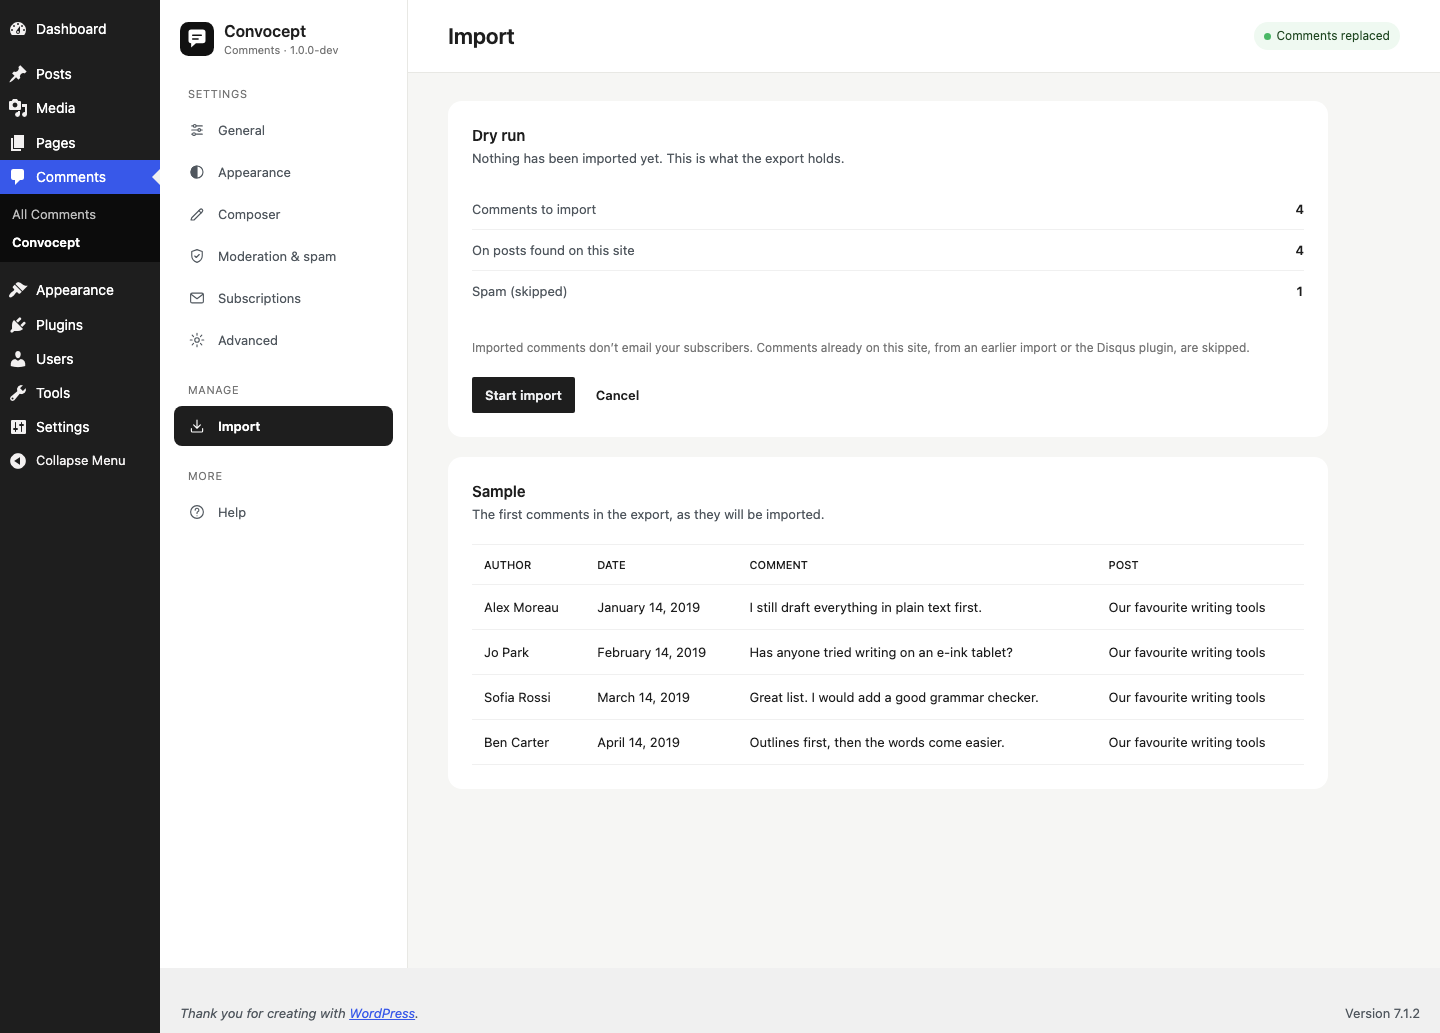
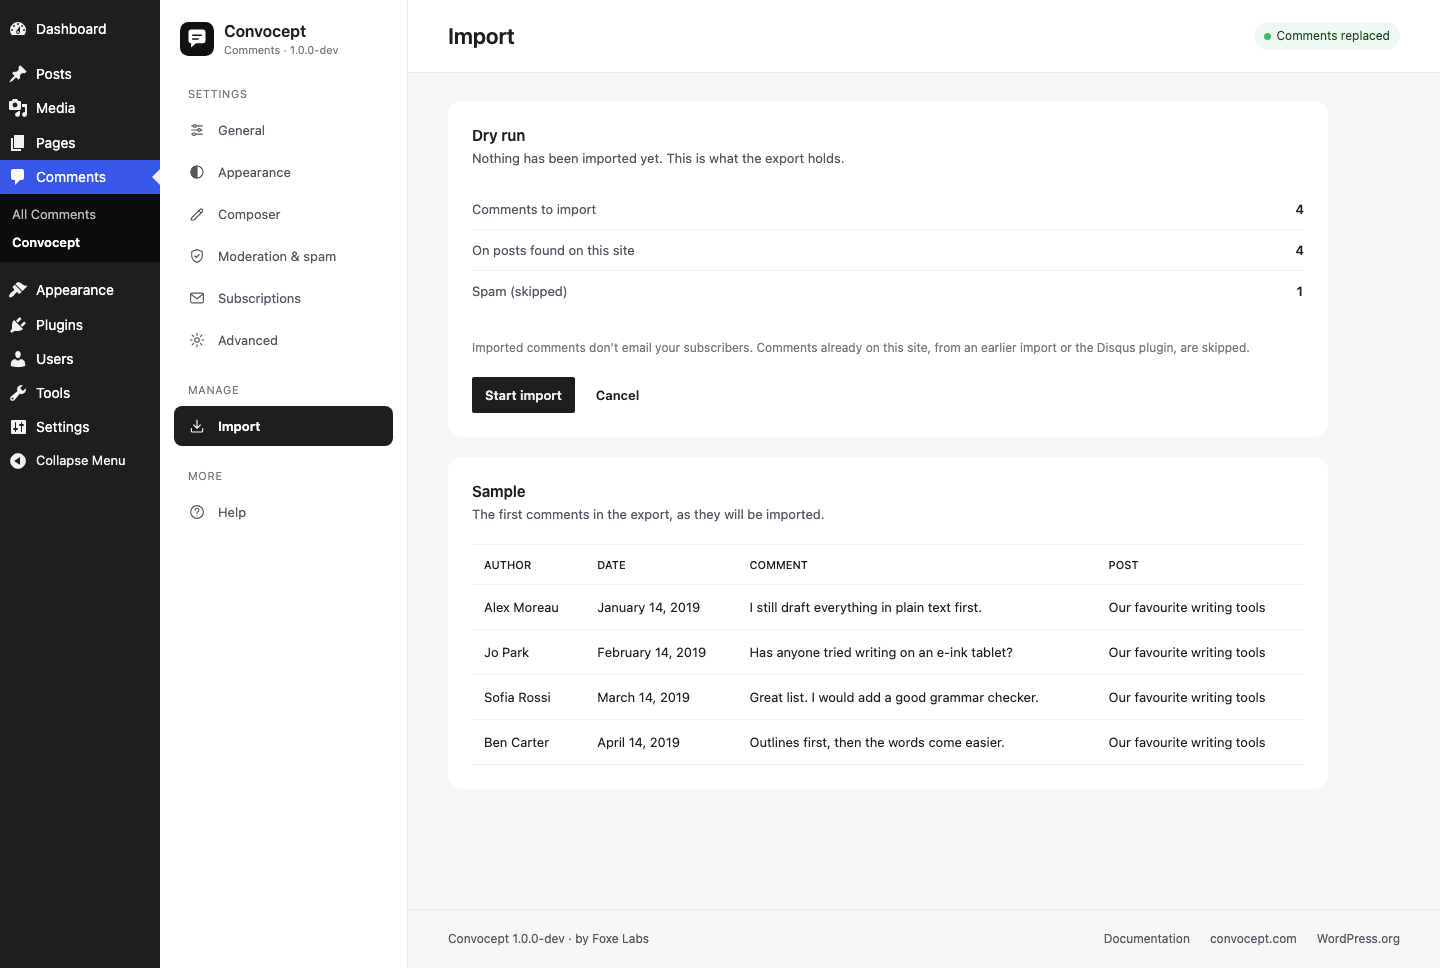
Settings screen: own footer with docs, convocept.com and WordPress.org links

diff --git a/assets/src/admin/ui/ui.css b/assets/src/admin/ui/ui.css
@@ -217,6 +217,52 @@
 	box-shadow: none;
 }
 
+/* PageFooter: replaces WordPress's footer, which this screen hides. */
+.convocept-footer {
+	display: flex;
+	flex-wrap: wrap;
+	align-items: center;
+	justify-content: space-between;
+	gap: 8px 24px;
+	margin-top: auto;
+	padding: 20px var(--convocept-space-8);
+	border-top: 1px solid var(--convocept-stroke-header);
+	background: var(--convocept-ground);
+	font-size: 12px;
+	line-height: 18px;
+	color: var(--convocept-fg-muted);
+}
+
+.convocept-footer__links {
+	display: flex;
+	flex-wrap: wrap;
+	gap: 8px 20px;
+}
+
+.convocept-admin .convocept-footer__links a {
+	color: var(--convocept-fg-muted);
+	text-decoration: none;
+}
+
+.convocept-admin .convocept-footer__links a:hover {
+	color: var(--convocept-fg);
+	text-decoration: underline;
+}
+
+/* While the FloatingBar shows, keep the footer's links clear of it. */
+.convocept-main--has-bar .convocept-footer {
+	padding-bottom: 96px;
+}
+
+/* This stylesheet loads on the plugin screen only, so these reach no other admin page. */
+#wpfooter {
+	display: none;
+}
+
+#wpbody-content {
+	padding-bottom: 0;
+}
+
 .convocept-chip {
 	display: inline-flex;
 	align-items: center;
@@ -239,7 +285,7 @@
 	gap: var(--convocept-space-5);
 	width: 100%;
 	max-width: calc(var(--convocept-content-max) + 2 * var(--convocept-space-8));
-	padding: var(--convocept-space-7) var(--convocept-space-8) 120px;
+	padding: var(--convocept-space-7) var(--convocept-space-8);
 }
 
 .convocept-content--wide {
@@ -823,7 +869,8 @@
 	}
 
 	.convocept-header,
-	.convocept-content {
+	.convocept-content,
+	.convocept-footer {
 		padding-inline: var(--convocept-space-4);
 	}
 

diff --git a/assets/src/admin/ui/layout.js b/assets/src/admin/ui/layout.js
@@ -1,6 +1,6 @@
 /**
  * Layout components of the Foxe Plugin Admin UI: Sidebar, PageHeader,
- * StatusChip, Card, Notice and FloatingBar.
+ * PageFooter, StatusChip, Card, Notice and FloatingBar.
  */
 
 /**
@@ -131,6 +131,41 @@ export function PageHeader( { title, chips, actions } ) {
 			{ chips }
 			{ actions }
 		</header>
+	);
+}
+
+/**
+ * The last line of the screen: plugin, version, maker and links.
+ *
+ * Replaces WordPress's own admin footer, which the plugin hides on its
+ * screen. Links open in a new tab and say so to screen readers.
+ *
+ * @param {Object}                                 props       Props.
+ * @param {string}                                 props.meta  Plugin, version and maker, e.g. "Convocept 1.0.0 · by Foxe Labs".
+ * @param {string}                                 props.label Name of the link list for screen readers.
+ * @param {Array<{ label: string, href: string }>} props.links Links.
+ * @return {Element} Footer.
+ */
+export function PageFooter( { meta, label, links } ) {
+	return (
+		<footer className="convocept-footer">
+			<span className="convocept-footer__meta">{ meta }</span>
+			<nav className="convocept-footer__links" aria-label={ label }>
+				{ links.map( ( link ) => (
+					<a
+						key={ link.href }
+						href={ link.href }
+						target="_blank"
+						rel="noopener noreferrer"
+					>
+						{ link.label }
+						<span className="screen-reader-text">
+							{ __( '(opens in a new tab)', 'convocept' ) }
+						</span>
+					</a>
+				) ) }
+			</nav>
+		</footer>
 	);
 }
 

diff --git a/assets/src/admin/app/App.js b/assets/src/admin/app/App.js
@@ -27,6 +27,7 @@ import { store as noticesStore } from '@wordpress/notices';
 import {
 	FloatingBar,
 	Notice,
+	PageFooter,
 	PageHeader,
 	Sidebar,
 	Snackbars,
@@ -226,7 +227,11 @@ export default function App( { boot, pages, groups } ) {
 					window.location.hash = id;
 				} }
 			/>
-			<div className="convocept-main">
+			<div
+				className={ `convocept-main${
+					dirty.length > 0 ? ' convocept-main--has-bar' : ''
+				}` }
+			>
 				<PageHeader
 					title={ page.title }
 					chips={
@@ -253,6 +258,28 @@ export default function App( { boot, pages, groups } ) {
 						boot={ boot }
 					/>
 				</main>
+				<PageFooter
+					meta={ sprintf(
+						/* translators: %s: Plugin version. */
+						__( 'Convocept %s · by Foxe Labs', 'convocept' ),
+						boot.version
+					) }
+					label={ __( 'About Convocept', 'convocept' ) }
+					links={ [
+						{
+							label: __( 'Documentation', 'convocept' ),
+							href: boot.urls.docs,
+						},
+						{
+							label: __( 'convocept.com', 'convocept' ),
+							href: boot.urls.website,
+						},
+						{
+							label: __( 'WordPress.org', 'convocept' ),
+							href: boot.urls.wporg,
+						},
+					] }
+				/>
 			</div>
 			{ dirty.length > 0 && (
 				<FloatingBar

diff --git a/tests/e2e/specs/settings.spec.js b/tests/e2e/specs/settings.spec.js
@@ -146,4 +146,31 @@ test.describe( 'Settings screen', () => {
 			page.getByRole( 'heading', { level: 1, name: 'Advanced' } )
 		).toBeVisible();
 	} );
+
+	test( 'our footer replaces the WordPress footer on this screen only', async ( {
+		admin,
+		page,
+	} ) => {
+		await admin.visitAdminPage( SCREEN, QUERY );
+
+		const footer = page.getByRole( 'navigation', {
+			name: 'About Convocept',
+		} );
+		await expect(
+			footer.getByRole( 'link', { name: /Documentation/ } )
+		).toHaveAttribute(
+			'href',
+			'https://docs.foxelabs.com/software/convocept/getting-started'
+		);
+		await expect(
+			footer.getByRole( 'link', { name: /convocept\.com/ } )
+		).toHaveAttribute( 'href', 'https://convocept.com/' );
+		await expect(
+			footer.getByRole( 'link', { name: /WordPress\.org/ } )
+		).toHaveAttribute( 'href', 'https://wordpress.org/plugins/convocept/' );
+		await expect( page.locator( '#wpfooter' ) ).toBeHidden();
+
+		await admin.visitAdminPage( 'index.php' );
+		await expect( page.locator( '#wpfooter' ) ).toBeVisible();
+	} );
 } );

diff --git a/assets/src/admin/ui/index.js b/assets/src/admin/ui/index.js
@@ -11,6 +11,7 @@ import './ui.css';
 export {
 	Sidebar,
 	PageHeader,
+	PageFooter,
 	StatusChip,
 	Card,
 	Notice,

diff --git a/src/Admin/SettingsPage.php b/src/Admin/SettingsPage.php
@@ -112,6 +112,26 @@ class SettingsPage {
 			self::SLUG,
 			array( $this, 'render' )
 		);
+
+		if ( '' !== $this->hook_suffix ) {
+			add_action( 'load-' . $this->hook_suffix, array( $this, 'replace_footer' ) );
+		}
+	}
+
+	/**
+	 * Empty WordPress's admin footer on this screen.
+	 *
+	 * The app shows its own footer (PageFooter) with Convocept's links; the
+	 * stylesheet hides the empty `#wpfooter`. Every other admin screen keeps
+	 * WordPress's footer.
+	 *
+	 * @since 1.0.0
+	 *
+	 * @return void
+	 */
+	public function replace_footer(): void {
+		add_filter( 'admin_footer_text', '__return_empty_string', 99 );
+		add_filter( 'update_footer', '__return_empty_string', 99 );
 	}
 
 	/**
@@ -216,6 +236,7 @@ class SettingsPage {
 				'docs'       => 'https://docs.foxelabs.com/software/convocept/getting-started',
 				'support'    => 'https://wordpress.org/support/plugin/convocept/',
 				'website'    => 'https://convocept.com/',
+				'wporg'      => 'https://wordpress.org/plugins/convocept/',
 			),
 		);
 

diff --git a/docs/decisions.md b/docs/decisions.md
@@ -2,6 +2,15 @@
 
 Decisions not fully covered by `PLAN.md`. Newest first.
 
+## 2026-09-28 — Own footer on the Convocept screen
+- **PageFooter** added to the design system first (version 8–9), then built: plugin, version and
+  maker on the start side; Documentation, convocept.com and WordPress.org on the end side. On the
+  Convocept screen only, `admin_footer_text` and `update_footer` return '' (hooked on the page's
+  `load-` action) and the app stylesheet, which loads nowhere else, hides `#wpfooter`.
+- Content keeps `space-8` below the last card instead of 120px; the footer gets 96px of bottom
+  padding only while the FloatingBar shows, so short pages end with the footer at the window's
+  bottom and the bar never covers its links.
+
 ## 2026-09-28 — Settings screen under Comments
 - **Comments → Convocept instead of Settings → Convocept** (owner's call, before 1.0): the app
   holds import today and moderation (M14) and Insights (M13) later, so it belongs with comments.

diff --git a/CHANGELOG.md b/CHANGELOG.md
@@ -6,6 +6,8 @@ and versions follow [Semantic Versioning](https://semver.org/).
 ## [Unreleased] — 1.0.0
 
 ### Added
+- The Convocept screen has its own footer (version, maker, links to the documentation,
+  convocept.com and WordPress.org) in place of WordPress's admin footer, on that screen only.
 - The settings screen moved from Settings to **Comments → Convocept**, next to the screens it
   works with.
 - Comments → Convocept → Help links to the documentation (docs.foxelabs.com). Sidebar items
